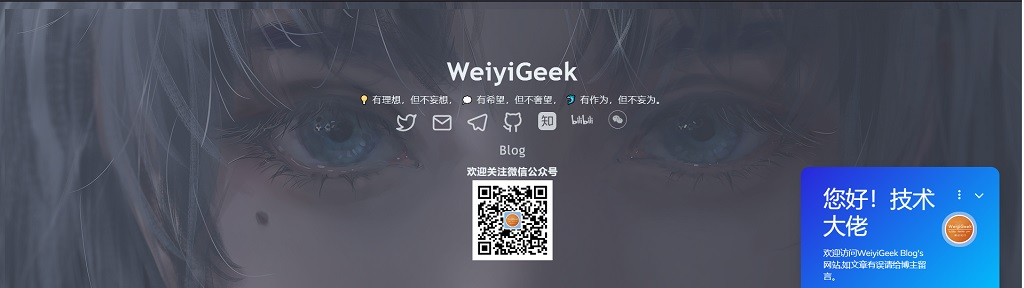
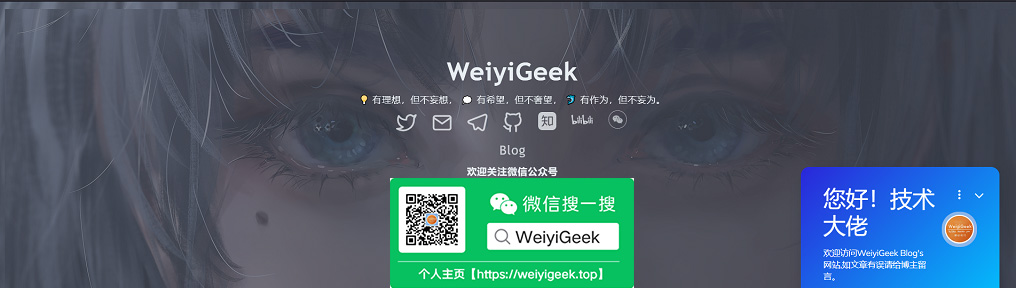
update readme.md

diff --git a/wechat.html b/wechat.html
@@ -24,7 +24,7 @@
 <div id="btw-modal" style="position: fixed; top: 50%; left: 50%; transform: translate(-50%, -50%); width: 320px; text-align: center; font-size: 13px; background: rgb(255, 255, 255); border-radius: 10px; z-index: 9999; font-family: PingFangSC-Regular, sans-serif;">
 <!-- <span id="btw-modal-close-btn" style="position: absolute; top: 5px; right: 15px; line-height: 34px; font-size: 34px; cursor: pointer; opacity: 0.2; z-index: 9999; color: rgb(0, 0, 0); background: none; border: none; outline: none;">×</span> -->
 <p id="btw-modal-header" style="margin-top: 40px; line-height: 1.8; font-size: 13px; ">
-  请扫一扫下方二维码，关注博主<strong>微信公众号</strong><br>
+  请扫一扫下方二维码，关注博主微信公众号<br>
   关注后请回复：<strong style="color: rgb(240, 65, 52);"><span id="key">您好</span></strong>
   <br/>
   获取<strong style="color: rgb(240, 65, 52);">下载链接</strong>以及微信公众号中的文章!</p>

diff --git a/README.md b/README.md
@@ -1,11 +1,14 @@
 
-| **Site**| **Blog**                             | **Twitter**                              | **Channel**                            | **Telegram**                             | 
-|-----| ------------------------------------ | ---------------------------------------- | -------------------------------------- | ---------------------------------------- | 
-|🌐 [www.weiyigeek.top](https://www.weiyigeek.top)| 🌐 [blog.weiyigeek.top](https://blog.weiyigeek.top) | 🕊 [@WeiyiGeek](https://twitter.com/weiyigeek) | 📣 [RSS_CloudSecOpsDev (aboard)](https://t.me/s/rss_secdevops) <br> 📣 [RSS_CloudSecOpsDev (国内)](https://tg.weiyigeek.top) | ☎ [WeiyiGeek](https://telegram.me/weiyigeek) | 
+| **Site**| **Blog**                             | **Twitter**                              | **Channel**                            | **Telegram**                             |
+|-----| ------------------------------------ | ---------------------------------------- | -------------------------------------- | ---------------------------------------- |
+|🌐 [www.weiyigeek.top](https://www.weiyigeek.top)| 🌐 [blog.weiyigeek.top](https://blog.weiyigeek.top) | 🕊 [@WeiyiGeek](https://twitter.com/weiyigeek) | 📣 [RSS_CloudSecOpsDev (aboard)](https://t.me/s/rss_secdevops) <br> 📣 [RSS_CloudSecOpsDev (国内)](https://tg.weiyigeek.top) | ☎ [WeiyiGeek](https://telegram.me/weiyigeek) |
 
 
-| **哔哩哔哩** | **知乎** | **微信公众号** | **书籍推荐**  |
-|---|---|---|---------------------------------------- |
-|🌐 [BiliBili](https://space.bilibili.com/385802642) | 🌐 [Zhihu](https://www.zhihu.com/people/weiyiSec) | 📣 [WeiyiGeek](WeiyiGeek) | 📘 [Books](https://blog.weiyigeek.top/books/) |
+| **哔哩哔哩** | **知乎** | **微信公众号** | **书籍推荐**  | **沟通交流** |
+|---|---|---|---------------------------------------- |-----|
+|🌐 [BiliBili](https://space.bilibili.com/385802642) | 🌐 [Zhihu](https://www.zhihu.com/people/weiyiSec) | 📣 [WeiyiGeek](https://weiyigeek.top/wechat.html?key=%E6%AC%A2%E8%BF%8E%E5%85%B3%E6%B3%A8) | 📘 [Books](https://blog.weiyigeek.top/books/) | 👋 [学习交流群](https://weiyigeek.top/visit.html) |
 
-![img](./img/weiyigeek.jpg)
+
+
+![WeiyiGeek.top](./img/weiyigeek.jpg)
+
